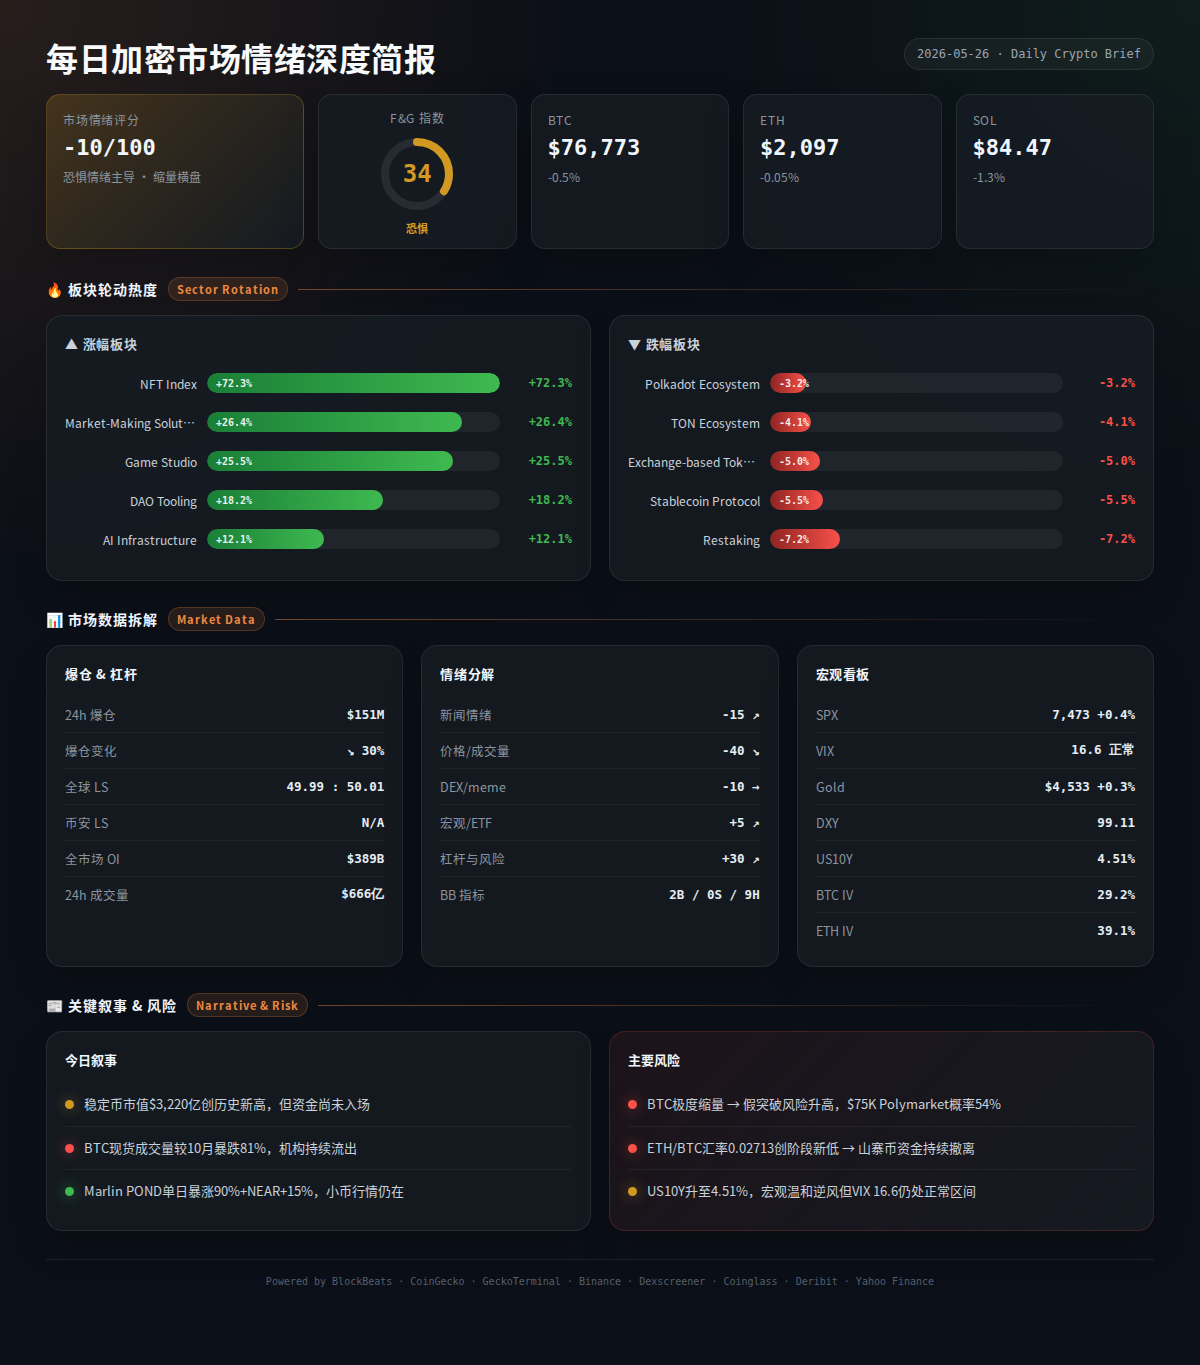
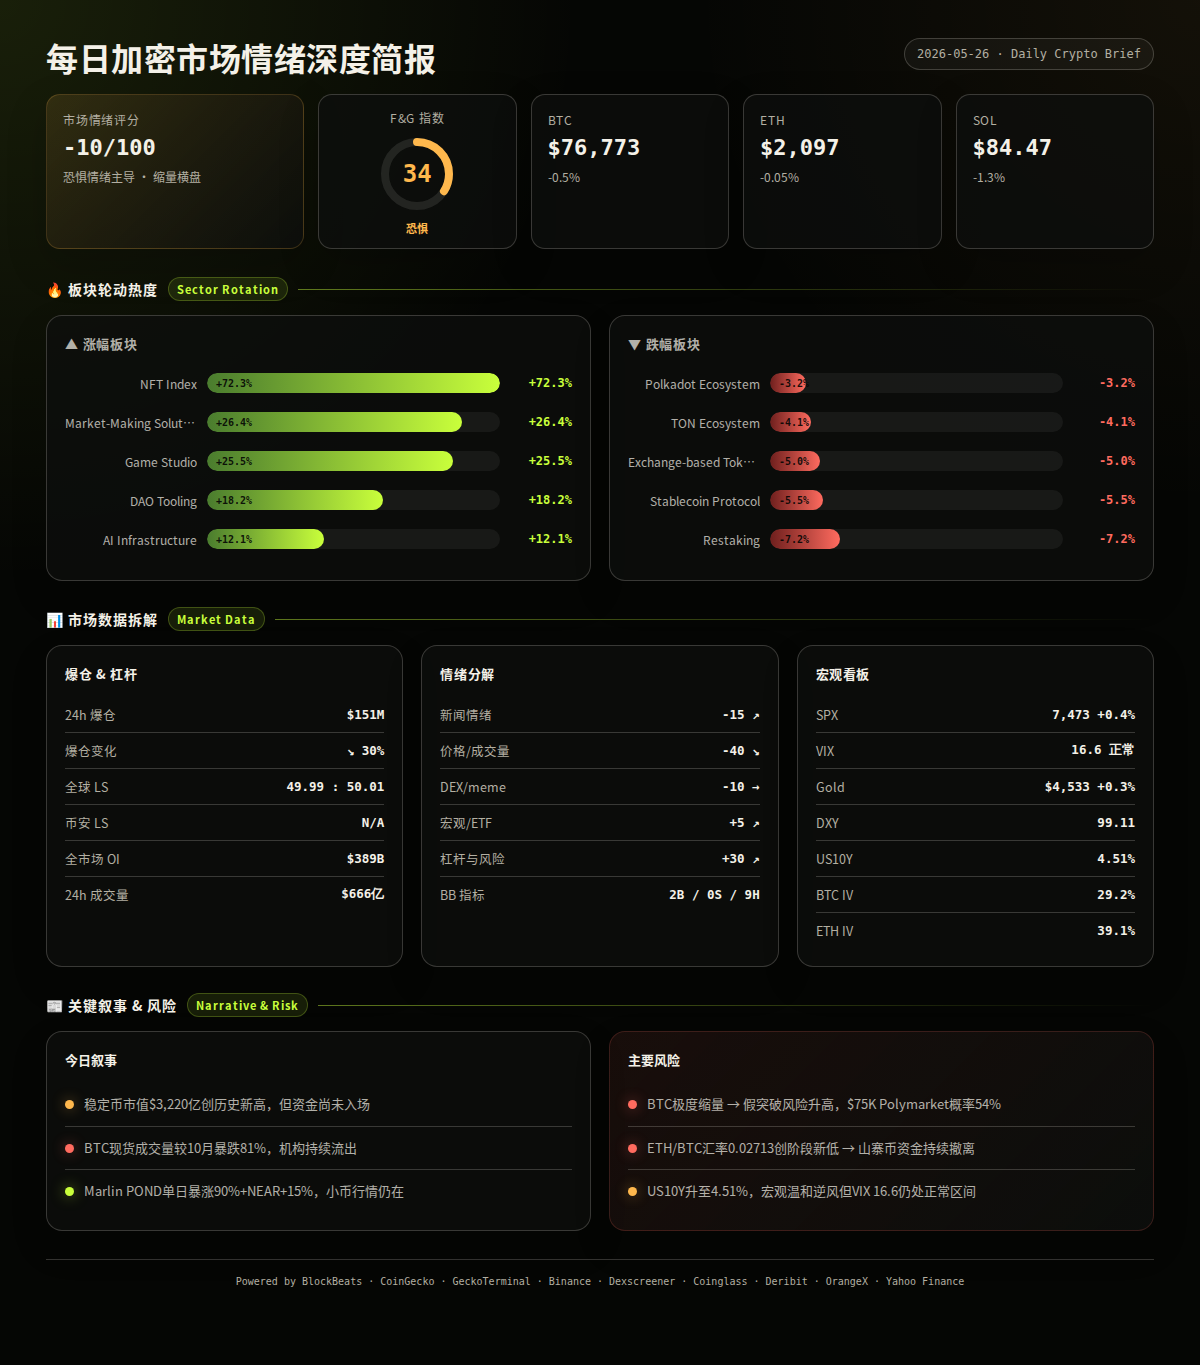
Daily report 2026-05-26 - with live dashboard data

diff --git a/news/2026-05-26/index.html b/news/2026-05-26/index.html
@@ -5,32 +5,116 @@
 <meta name="viewport" content="width=device-width, initial-scale=1.0">
 <title>每日加密市场情绪简报 · 2026-05-26</title>
 <style>
-  @font-face { font-family:'Noto Sans SC'; src:url('https://fonts.googleapis.com/css2?family=Noto+Sans+SC:wght@400;500;700;900&display=swap'); }
+  :root {
+    --ink: #f4f1e8;
+    --muted: #b3afa2;
+    --soft: rgba(244, 241, 232, 0.72);
+    --line: rgba(244, 241, 232, 0.2);
+    --panel: rgba(13, 15, 13, 0.76);
+    --acid: #c9ff3b;
+    --amber: #ffb84d;
+    --red: #ff6b5f;
+    --black: #050604;
+  }
   * { margin:0; padding:0; box-sizing:border-box; }
-  body { background:#0b0f17; color:#e6edf3; font-family:'Noto Sans SC',-apple-system,sans-serif; min-height:100vh; padding:20px 16px; max-width:960px; margin:0 auto; line-height:1.7; }
-  @media (max-width:640px) { body { padding:12px 10px; } }
-  a { color:#f0883e; text-decoration:none; }
-  h2 { font-size:17px; margin:20px 0 10px; color:#f8fafc; }
-  p { font-size:14px; margin:3px 0; color:#c9d1d9; }
-  p.bullet { padding-left:14px; }
-  hr { border:none; border-top:1px solid rgba(255,255,255,0.06); margin:14px 0; }
-  .back-link { display:inline-block; margin-bottom:16px; font-size:13px; color:#8b949e; }
-  .title { font-size:22px; font-weight:900; margin-bottom:2px; }
-  .date { color:#8b949e; margin-bottom:20px; font-size:13px; }
-  .chart-card { margin:14px 0; padding:12px; background:rgba(22,27,34,0.6); border:1px solid rgba(255,255,255,0.06); border-radius:10px; }
-  .chart-label { font-size:12px; color:#8b949e; margin-bottom:6px; }
-  .chart-card img { width:100%; border-radius:6px; }
-  .footer { margin-top:28px; padding-top:14px; border-top:1px solid rgba(255,255,255,0.06); font-size:10px; color:#484f58; text-align:center; }
+  html { scroll-behavior: smooth; }
+  body {
+    margin: 0;
+    color: var(--ink);
+    background: var(--black);
+    font-family: Inter, ui-sans-serif, system-ui, -apple-system, BlinkMacSystemFont, "Segoe UI", "Noto Sans SC", sans-serif;
+    min-height: 100vh;
+    padding: 90px 18px 60px;
+    max-width: 820px;
+    margin: 0 auto;
+    line-height: 1.7;
+  }
+  @media (max-width:640px) { body { padding:80px 14px 40px; } }
+  a { color: var(--acid); text-decoration: none; }
+  a:hover { text-decoration: underline; text-underline-offset: 4px; }
+  h2 { font-size: 17px; margin: 28px 0 12px; color: var(--ink); font-weight: 700; }
+  h2:first-of-type { margin-top: 10px; }
+  p { font-size: 14px; margin: 4px 0; color: var(--ink); line-height: 1.75; }
+  p.bullet { padding-left: 16px; color: var(--soft); }
+  hr { border: none; border-top: 1px solid var(--line); margin: 18px 0; }
+
+  /* Navigation */
+  .nav {
+    position: fixed;
+    z-index: 10;
+    inset: 0 0 auto;
+    padding: 14px max(18px, calc((100vw - 820px) / 2));
+    display: flex;
+    justify-content: space-between;
+    align-items: center;
+    gap: 20px;
+    text-transform: uppercase;
+    letter-spacing: .12em;
+    font-size: 12px;
+    background: linear-gradient(180deg, rgba(5,6,4,.95), transparent);
+  }
+  .brand { font-weight: 950; color: var(--ink); letter-spacing: .12em; text-decoration: none; }
+  .brand span { color: var(--acid); }
+  .brand:hover { text-decoration: none; }
+  .nav-links { display: flex; gap: clamp(14px, 3vw, 32px); }
+  .nav-links a { color: var(--soft); }
+  .nav-links a:hover { color: var(--ink); text-decoration: none; }
+
+  .back-row { margin-bottom: 8px; }
+  .back-link { font-size: 12px; color: var(--muted); text-transform: uppercase; letter-spacing: .08em; }
+  .title { font-size: 24px; font-weight: 900; margin-bottom: 4px; color: var(--ink); letter-spacing: 0; }
+  .date { color: var(--muted); margin-bottom: 24px; font-size: 12px; text-transform: uppercase; letter-spacing: .06em; }
+
+  .dashboard-img {
+    width: 100%;
+    border-radius: 16px;
+    border: 1px solid var(--line);
+    margin-bottom: 28px;
+  }
+
+  .chart-card {
+    margin: 20px 0;
+    padding: 18px;
+    background: var(--panel);
+    border: 1px solid var(--line);
+    border-radius: 16px;
+  }
+  .chart-label { font-size: 12px; color: var(--muted); margin-bottom: 10px; text-transform: uppercase; letter-spacing: .06em; }
+  .chart-card img { width: 100%; border-radius: 8px; }
+
+  .footer {
+    margin-top: 48px;
+    padding-top: 20px;
+    border-top: 1px solid var(--line);
+    font-size: 11px;
+    color: var(--muted);
+    text-align: center;
+    letter-spacing: .04em;
+  }
+  @media (max-width: 520px) {
+    .nav-links { display: none; }
+    .title { font-size: 20px; }
+  }
 </style>
 </head>
 <body>
-<a class="back-link" href="/news/">← 报告存档</a>
-<div class="title">每日加密市场情绪深度报告</div>
-<div class="date">2026-05-26 · 08:00 UTC+8 · 8 数据源全自动生成</div>
+  <nav class="nav">
+    <a class="brand" href="/">ZI<span>YIK</span></a>
+    <div class="nav-links">
+      <a href="/">Home</a>
+      <a href="/news/">Market News</a>
+      <a href="https://t.me/ZiYik0612_Sentiment_Research" target="_blank" rel="noreferrer">Telegram</a>
+      <a href="https://x.com/ZiYik0612" target="_blank" rel="noreferrer">X</a>
+    </div>
+  </nav>
 
-<a href="images/dashboard.png" target="_blank"><img src="images/dashboard.png" alt="市场情绪仪表板" style="width:100%;border-radius:12px;border:1px solid rgba(255,255,255,0.06);margin-bottom:16px;"></a>
+  <div class="back-row"><a class="back-link" href="/news/">← 报告存档</a></div>
+  <div class="title">每日加密市场情绪深度报告</div>
+  <div class="date">2026-05-26 · 08:00 UTC+8 · 多数据源全自动生成</div>
 
-<p>每日加密市场情绪深度报告</p>
+  <a href="images/dashboard.png" target="_blank"><img class="dashboard-img" src="images/dashboard.png" alt="市场情绪仪表板"></a>
+
+  <p>每日加密市场情绪深度报告</p>
 <br>
 <p>=== 第一段：叙事与风险面 ===</p>
 <br>
@@ -95,10 +179,10 @@
 <br>
 <br>
 
-<div class="chart-card"><div class="chart-label">📊 爆仓热力图</div><img src="images/heatmap.png" alt="📊 爆仓热力图"></div>
+  <div class="chart-card"><div class="chart-label">📊 爆仓热力图</div><img src="images/heatmap.png" alt="📊 爆仓热力图"></div>
 <div class="chart-card"><div class="chart-label">📊 OrangeX 恐惧贪婪指数 + 热力图</div><img src="images/orangex.png" alt="📊 OrangeX 恐惧贪婪指数 + 热力图"></div>
 
-<br>
+  <br>
 <br>
 <p>=== 第二段：数据与技术面 ===</p>
 <br>
@@ -196,6 +280,6 @@
 <br>
 <br>
 
-<div class="footer">Powered by BlockBeats · CoinGecko · GeckoTerminal · Binance · Dexscreener · Coinglass · Deribit · OrangeX · Yahoo Finance</div>
+  <div class="footer">Powered by BlockBeats · CoinGecko · GeckoTerminal · Binance · Dexscreener · Coinglass · Deribit · OrangeX · Yahoo Finance</div>
 </body>
 </html>
